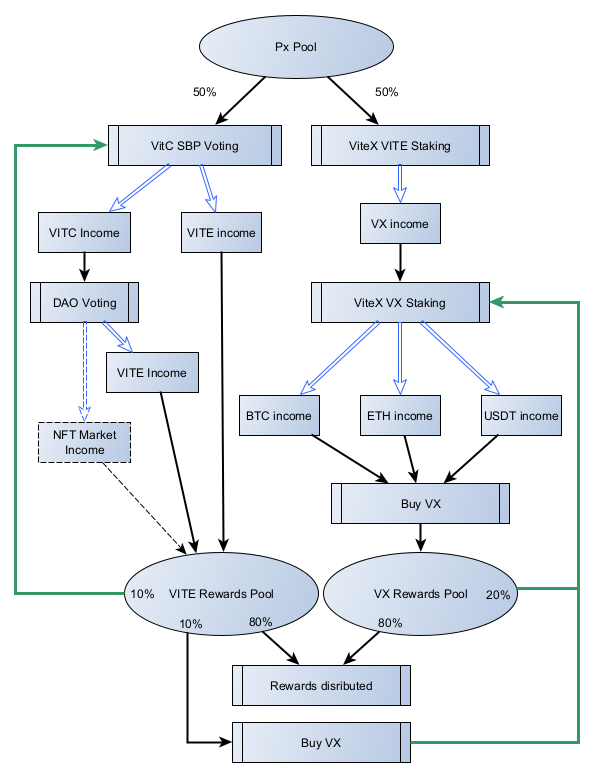
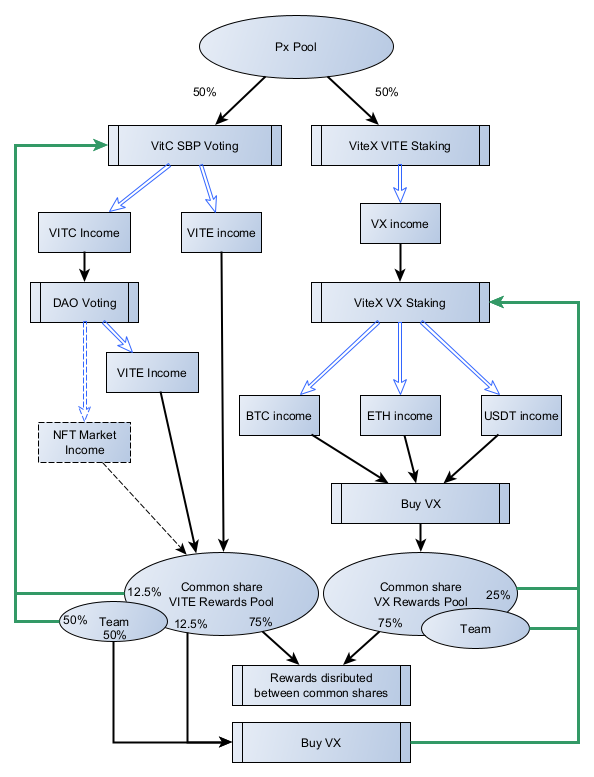
Updates whitepaper and investment strategy

Changed region(s): [[0.0, 0.7413, 0.4545, 0.9575], [0.6364, 0.7413, 0.9697, 0.834], [0.4242, 0.8649, 0.6364, 0.8958]]

diff --git a/docs/whitepaper.md b/docs/whitepaper.md
@@ -1,16 +1,14 @@
-# Px Token
 ## Lightpaper 1.0
-Mastering Vite's ecosystem dividends
 
 ## Vite Ecosystem overview
-Vite is a next-generation high-throughput, low-latency, and highly-scalable network. Vite uses a Directed Acyclic Graph (DAG) ledger structure, which enables fast and feeless transactions of Vite coins and tokens created within its network. Vite's DAG structure is much more energy efficient compared to many other cryptocurrencies.
+Vite is a next-generation high-throughput, low-latency, and highly-scalable network. Vite uses a Directed Acyclic Graph (DAG) ledger structure, which enables fast and feeless transactions of Vite coins and tokens created within its network. Vite's DAG structure is much more "green" (energy efficient) compared to many other cryptocurrencies.
 
-Vite's team also develops and manages ViteX, a DEX app running on Vite blockchain. It is so tightly integrated with a VITE coin that it's even a part of the official Vite Wallet app. ViteX has it's own utility token, VX. VX is used to incentivize usage of the DEX in a different ways. Holders of the VX are eligible for rewards from a trading fees collected by ViteX. More information on ViteX and VX is awailable on [official site](https://vitex.net/faq).
+Vite's team also develops and manages [ViteX](https://vitex.net), a DEX app running on Vite blockchain. It is so tightly integrated with Vite Coin (VITE) that it's even a part of the official Vite Wallet apps. ViteX has it's own utility token, VX. VX is used to incentivize usage of the DEX in a different ways. Holders of the VX are eligible for rewards from a trading fees collected by ViteX. More information on ViteX and VX is awailable on [official site](https://vitex.net/faq).
 
 ## Opportunity
-The Px team is heavily betting on Vite and ViteX success. We think that specifically VX token is heavily undervalued. As the Vite ecosystem evolves and gets it's adoption of the built in DEX should also increase. That will drive exchange revenue up and so will VX holders rewards. Unlike VITE, VX is a fixed supply token with no inflation, so there is almost no non-catastrophic reasons for both token price and rewards to go down.
+Px Team ("we") is heavily betting on Vite Team and ViteX DEX success. We think that specifically VX token is currently heavily undervalued. As the Vite ecosystem evolves and gets it's adoption of the built in DEX should also increase. That will drive exchange revenue up and so will VX holders rewards. Unlike VITE, VX have a fixed supply of 29,328,807.8 tokens with no inflation, so there is almost no non-catastrophic reasons for both token price and rewards to go down.
 
-We see an opportunity in accumulating a substantial amount of VX, staking it and receiving BTC, ETH and USDT in rewards. Why it's important for amount of VX to be *substantial*? This is all about magic of a complex percent. The problem is that amount of each of BTC, ETH, USDT distributed each day is too small for instant reinvestment. Specifically the amount must be larger than minimum ViteX order value, so that BTC, ETH and USDT can be exchanged again for VX which can be reinvestment in stake. Daily reinvestment will give you a major advantage in a long run. But not only that. VX distribution is very limited in supply and time. Ever dropping VX distribution will end in September 2027. So the sooner and faster you will "mine" VX the more you will get. More to that, we can speculate VX price will only grow in time as ViteX will grow in price, resulting in VX holdings to become large asset which is just nice to have! However even if it doesn't grow in price or even become less, we will still have nice income as dividends.
+We see an opportunity in accumulating a substantial amount of VX, staking it and receiving BTC, ETH and USDT in rewards. Why it's important for amount of VX to be *substantial*? This is all about magic of a complex percent. The problem is that amount of each of BTC, ETH, USDT distributed each day is too small for instant reinvestment. Specifically the amount must be larger than minimum ViteX order value, so that BTC, ETH and USDT can be exchanged again for VX which can be reinvestment in stake. Daily reinvestment will give you a major advantage in a long run. But not only that. VX distribution is very limited in supply and time. Ever dropping VX distribution pool will end approximately in September 2027. So the sooner and faster you will start "mining" VX the more you will get. More to that, we can speculate that VX price will only grow in time as ViteX will grow in size. As a result VX holdings will become larger asset which is just nice to have! However even if it doesn't grow in price or even become less, it will still produce a nice income as dividends for you.
 
 So Px idea is pretty simple:
 1. Gather a pool of assets (pool is required for daily reinvestment);
@@ -20,8 +18,7 @@ This is an asset management system in one of it's simple forms.
 
 ## Values
 ### Pragmatic (anti-hype) and safe
-Px has nothing to do with hype. This token will not (probably) "moon" you anywhere. Don't expect daily news. It's about getting sustainable income with a "magic" of complex percent.
-Needless to say Px investments prefer a "safe-bet" type investments, with a rare exceptions.
+Px has nothing to do with hype. This token will not (probably) "moon" you anywhere. Don't expect daily news. It's about getting sustainable income with a "magic" of complex percent. Needless to say Px Team prefer a "safe-bet" type investments.
 
 ### Community natural growth
 Naturally related to previous one. We don't force or proactively incentivize anyone to purchase Px tokens. This ideally should be DYOR type decision for a like-minded people.
@@ -36,17 +33,22 @@ Burning of tokens is not planned and prohibited for everyone except the team.
 
 ### Distribution
 Following numbers may change before distribution starts.
-- Team: 20%;
-- Distribution sale: 80%.
+- Team: 20% (team share);
+- Distribution sale: 80% (common share).
 The "Team" part covers all additional expenses should they ever come.
-Also "Team" have "initial stake" of ?,000 VITE in the project.
+Also "Team" have "initial stake" of 46,000 VITE in the project.
 
 ### Reinvestment
-As team is dedicated to Px value growth and project main idea, all 20% of the team share are reinvested into pool initially.
-After last token is distributed, 1% are unlocked for the team at the end of each quarter, i.e. it will be fully unlocked after 5 years (4% a year). Unlocked dividends part are free to use for the team. There is a high chance that unlocked part will be used for buyback operations or used for reinvestment.
+Team shows its dedication to Px value growth and project main idea by reinvesting all of it's 20% share into pool initially.
+After last token is distributed, 0.5% are unlocked for the team at the end of each quarter, i.e. it will be fully unlocked after 10 years (2% a year). Unlocked team share bahaves like a common share.
+Another reinvestment part will be done from investors' share (25% of it).
+So in other words:
+- Teams shares: 100% reinvestment.
+- Common shares: 25% reinvestment.
 
 ### Dividends
-Dividends are paid on weekly basis. For now they are currently planned to be pain in VX and VITE.
+Dividends are paid on weekly basis. For now they are currently planned to be paid in VX and VITE.
+Only common shares are eligible for dividends.
 
 ### Initial investment strategy
 Below is investment strategy which is planned to be initially implemented by the project:
@@ -68,13 +70,13 @@ By the end of the phase all Px tokens should have been distributed.
 Now then we have full pool at our disposal, we can make strategic decisions on investments and enjoy "snowball" effect.
 
 ### 4. Buyback (2023-2027)
-As mentioned before each quarter 0.5% of the dividends share will be released for the team. They are free for the team to use, but most of it will be used for market buyback operations. Larger team share size will allow further increase both reinvestment and buyback.
+As mentioned before each quarter 0.5% of the dividends share will be released for the team as common shares. They are free for the team to use (as any common share), but some of its dividends will be used for market buyback operations. Larger team share size will allow further increase of both reinvestment and buyback.
 
 ### 5. Project termination (2027-?)
-Final distribution of the accumulated funds will happen eventually and shareholders will receive proportional part of the accumulated funds (should be mostly VX).
+Final distribution of the accumulated stake funds will happen eventually and shareholders will receive proportional part of the accumulated funds (should be mostly VITE and VX).
 After that Px token will have no practical value.
 
-## Summary
+## Project summary
 - Px is an asset management system;
 - Px is focused on safe investments in core Vite ecosystem token VX and VITE coin;
 - Px have a clearly defined lifecycle of about 5 years;
